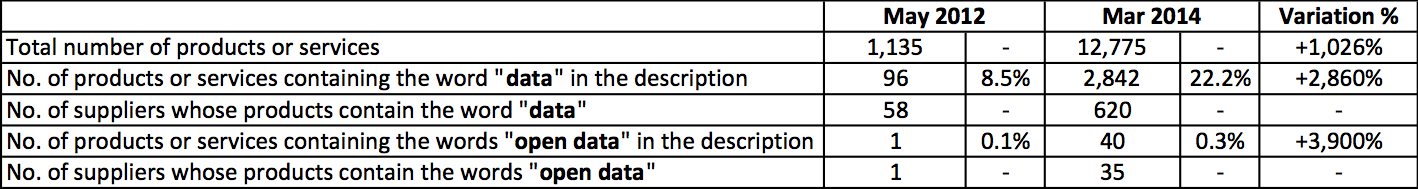
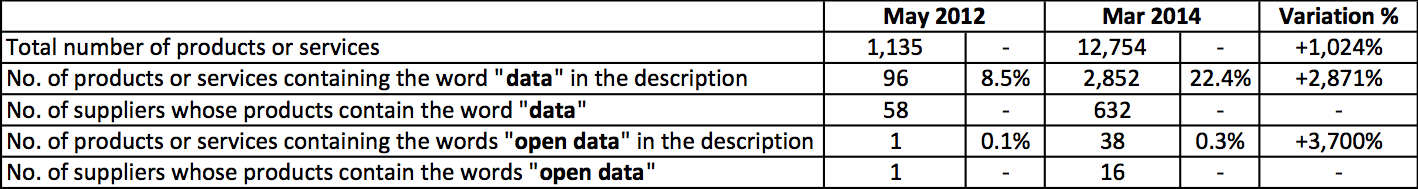
Finished updating with last night's scraping round

diff --git a/README.md b/README.md
@@ -7,15 +7,15 @@ The objective of this project is to:
 
 ## Outcome
 
-On 14 March 2014, 620 companies listed on CloudStore today 2,842 products and services whose description included the word "data", over a total of 12,775 products.
+On 18 March 2014, 632 companies listed on CloudStore today 2,852 products and services whose description included the word "data", over a total of 12,754 products.
 
-Of these, 35 companies offered 40 products and services whose description explicitly referred to "open data".
+Of these, 16 companies offered 38 products and services whose description explicitly referred to "open data".
 
 In respect to the only previous snapshot we have of CloudStore, dated May 2012, we can see how the attention to data services and to open data in particular has increased substantially. 
 
 At the time, the whole of CloudStore was about 1/10th of the size of today and listed 1,135 products and services. We had 58 suppliers offering 96 data products and services, 1 of which only referred to "open data".
 
-This means that within the success of CloudStore's +1,025% growth in 22 months (110% month-on-month, like saying that it doubled in size every month), data services grew by +2,860% and open data services in particular by +3,900%.
+This means that within the success of CloudStore's +1,024% growth in 22 months (112% month-on-month, like saying that it doubled in size every month), data services grew by +2,871% and open data services in particular by +3,700%.
 
 ![Summary table](images/table_1.png)
 
